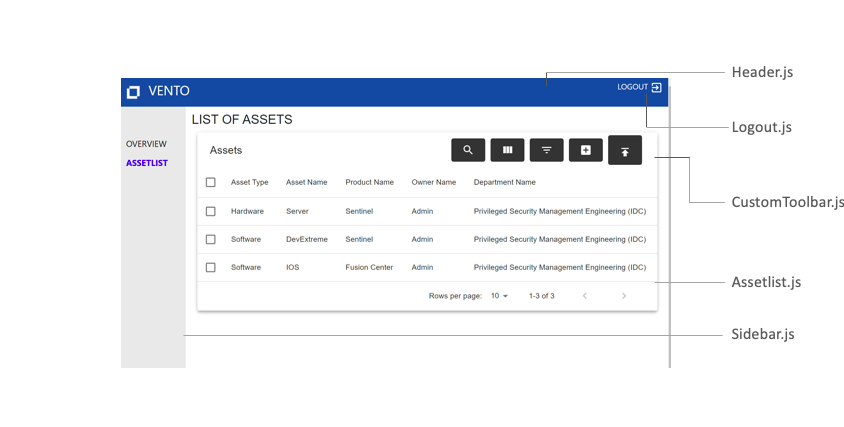
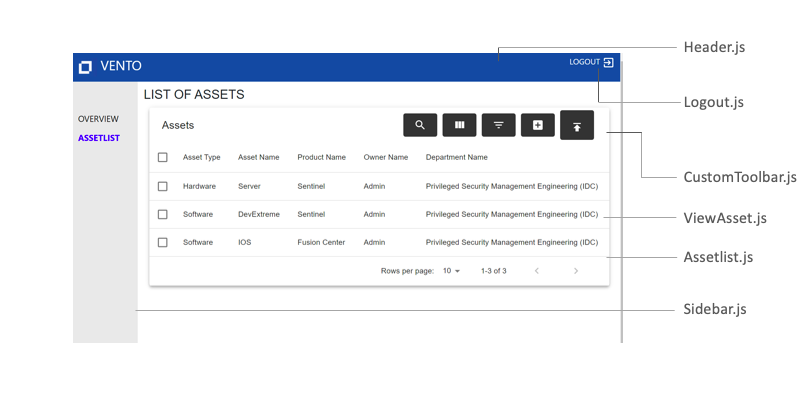
conflict resolvd

diff --git a/README.md b/README.md
@@ -5,9 +5,10 @@ testing out
 
 [MUI datatable for react](https://github.com/gregnb/mui-datatables) is used for the asset table creation. Features like pagination, sorting and filtering are supported in this table.
 
-Operations on the asset table provided include creation of assets, uploading asset information as CSV, filtering, custom selection of columns to be displayed which are all part of CustomToolbar.
+Operations provided on the asset table include creation of assets, uploading asset information as CSV, filtering, custom selection of columns to be displayed and global search which are all part of CustomToolbar.
 
-Additional features like deletion of assets(on one or more row selection) and editing asset informatin(on one row selection only) are available in CustomToolbarSelect.
+Additional features like deletion of assets(on selecting one or more rows) and editing an asset's informatin(on selecting strictly one row) are available in CustomToolbarSelect.
 
+On clicking any asset on the table, all other information pertaining to that particular asset can be viewed.
  ![image](/sample/assetlist.png "assetlist")
 
